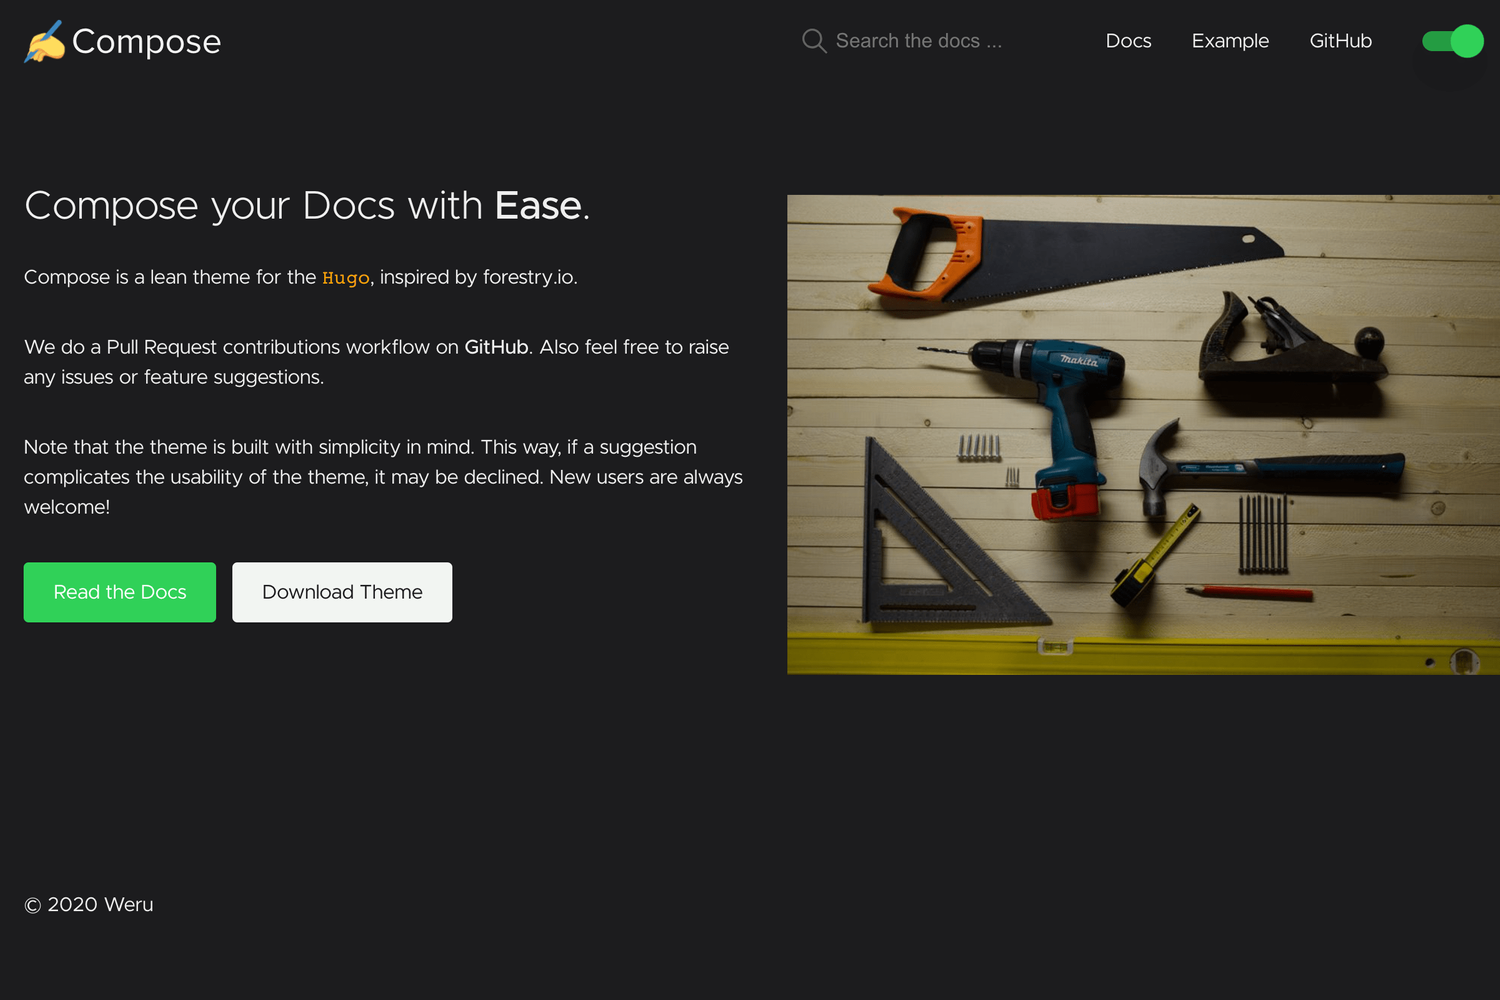
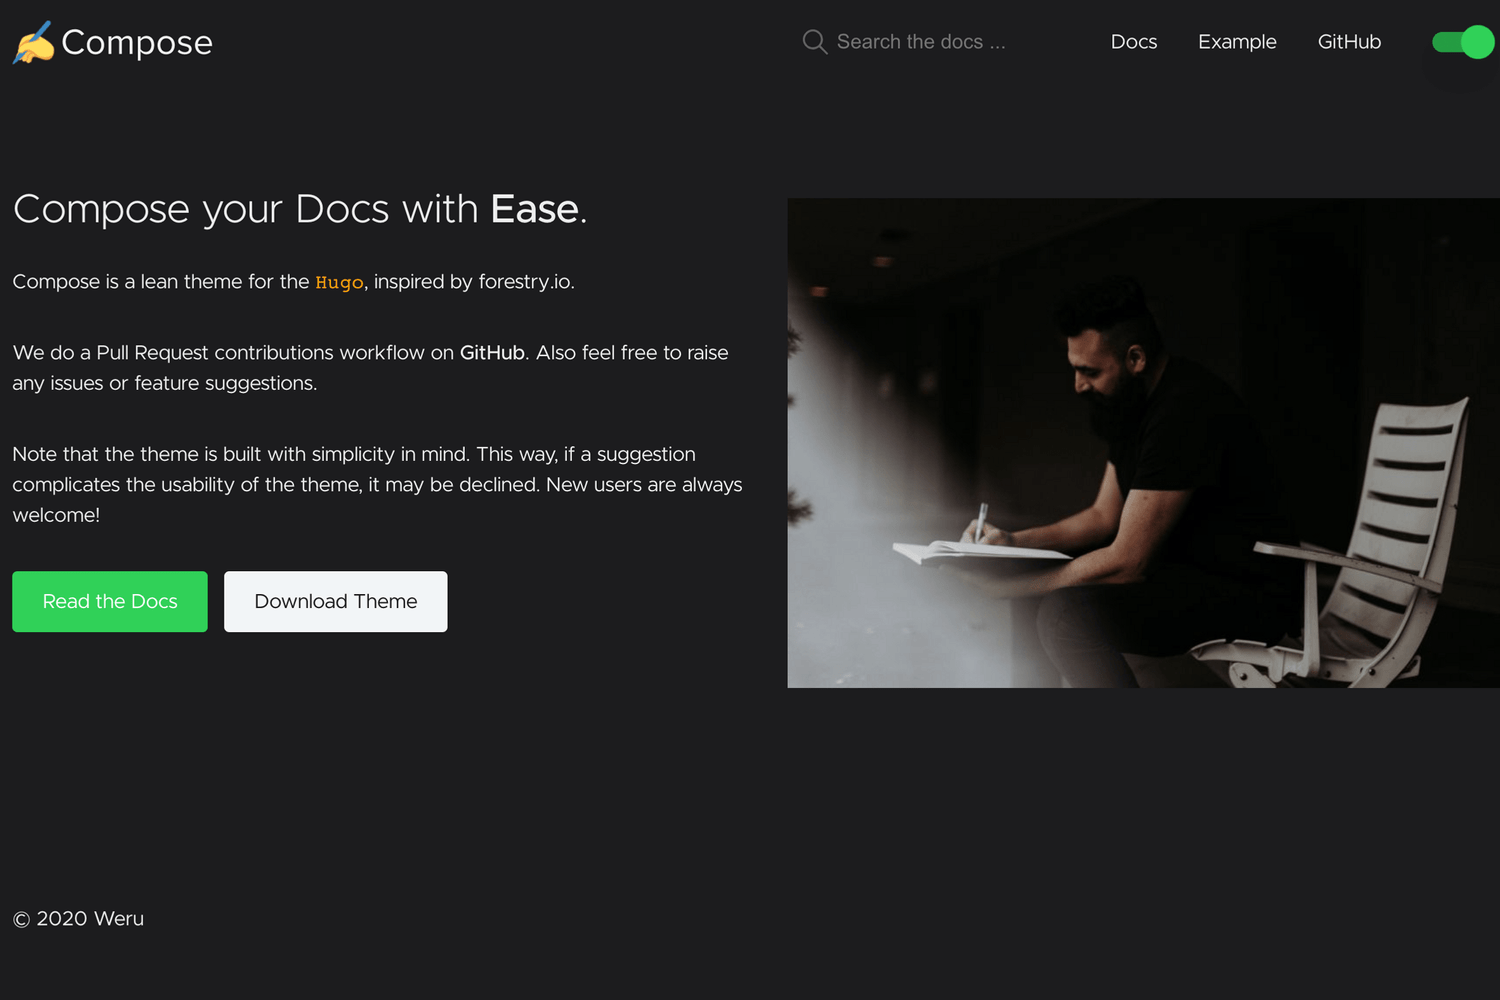
update

diff --git a/README.md b/README.md
@@ -2,9 +2,7 @@
 
 Compose is a [Hugo](https://gohugo.io/) theme for documentation websites, inspired by [forestry.io](forestry.io)'s docs page. The theme provides a simple navigation & structure.
 
-![Hugo Compose Theme](https://github.com/onweru/compose/blob/master/images/tn.png)
-
-![Hugo Compose Theme](https://github.com/onweru/compose/blob/master/images/tn-1.png)
+![Hugo Compose Theme](https://github.com/onweru/compose/blob/master/images/screenshot.png)
 
 ## Features
 
